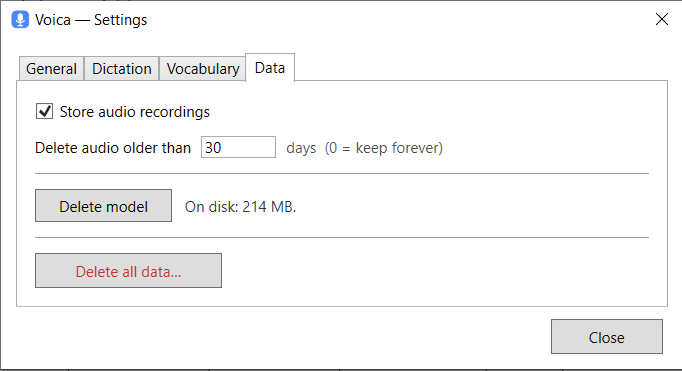
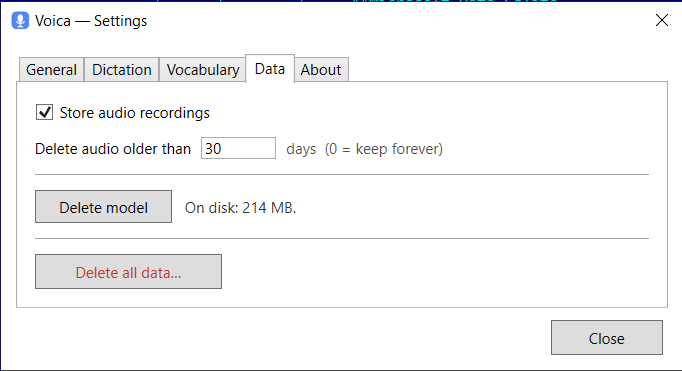
Refresh screenshots for 0.5.0; changelog and release notes
All five Settings tabs plus History are re-shot against the current UI; the
standalone About screenshot is replaced by the Settings About tab. README en/ru
also mention the STT model/language choice and history export.

diff --git a/README.ru.md b/README.ru.md
@@ -31,14 +31,16 @@ Voica — маленькое фоновое приложение в систем
 - **Диктовка по глобальному хоткею** — Push‑to‑talk (удержание) или Toggle (нажал/нажал). По
   умолчанию **Toggle + правый Alt**. Можно выбрать пресет (Right/Left Alt, CapsLock, ScrollLock,
   Pause) или записать **свою комбинацию** (напр. `Ctrl+Shift+Space`).
-- **Пунктуация через Groq Whisper** (`whisper-large-v3-turbo`) — автоопределение языка (удобно для
-  смеси русского и английского).
+- **Пунктуация через Groq Whisper** — выбор модели (`whisper-large-v3-turbo` или
+  `whisper-large-v3`) и языка (автоопределение — удобно для смеси русского и английского, либо
+  жёстко русский/английский).
 - **Локальный офлайн-движок** (опционально) — распознавание целиком на твоём ПК через **GigaAM v3**
   (русский, с пунктуацией), без сети и без ключа. Если выбрано облако, а сети нет — Voica сама
   переключится на локальный движок (когда модель установлена).
 - **Авто‑вставка** в активное поле (синтетический Ctrl+V); текст **всегда** также кладётся в буфер
   обмена. Либо — редактируемое **окно результата**.
-- **История** (SQLite) — просмотр, повторное копирование, воспроизведение аудио, удаление.
+- **История** (SQLite) — просмотр, повторное копирование, воспроизведение аудио, удаление и
+  **экспорт** всей истории в Markdown, CSV или JSON.
 - **Хранение аудио** — N дней (по умолчанию 30; 0 = хранить всегда) или не хранить вовсе.
 - **Словарь** — подсказка из терминов/названий, которые Whisper часто коверкает.
 - **Проверка обновлений** по релизам этого репозитория (опционально, раз в сутки). Voica ничего не
@@ -50,19 +52,23 @@ Voica — маленькое фоновое приложение в систем
 
 ## Скриншоты
 
-**Настройки** — вкладки General (движок + ключ) и Vocabulary (словарь + ИИ-исправление):
+**Настройки** — пять вкладок: движок и ключ, диктовка, словарь, данные, о программе.
 
 ![Настройки — General](docs/settings-general.png)
 
+![Настройки — Dictation](docs/settings-dictation.png)
+
 ![Настройки — Vocabulary](docs/settings-vocabulary.png)
 
-**История** — просмотр, повторное копирование, воспроизведение, удаление:
+![Настройки — Data](docs/settings-data.png)
+
+![Настройки — About](docs/settings-about.png)
+
+**История** — просмотр, копирование, воспроизведение, удаление, экспорт:
 
 ![Окно истории](docs/history.png)
 
-**О программе** и иконка в трее (покой):
-
-![Окно «О программе»](docs/about.png)
+**Иконка в трее** (покой):
 
 ![Иконка в трее](docs/tray.png)
 

diff --git a/CHANGELOG.md b/CHANGELOG.md
@@ -4,12 +4,31 @@ All notable changes to this project are documented here. The format is based on
 [Keep a Changelog](https://keepachangelog.com/en/1.1.0/), and this project adheres to
 [Semantic Versioning](https://semver.org/spec/v2.0.0.html).
 
-## [Unreleased]
+## [0.5.0] - 2026-07-30
+
+### Added
+- **STT model and language choice** for the cloud engine (spec §2, Settings → Dictation):
+  `whisper-large-v3-turbo` (default) or `whisper-large-v3`, and auto-detect / Russian / English.
+  Forcing a language fixes short phrases that auto-detect gets wrong. History records the model
+  actually used.
+- **Dynamic chat-model resolution with self-healing** for AI term correction (spec §6.1): the
+  model is no longer hardcoded — Voica reads the live model list, picks the best available one by
+  a priority chain, caches it, migrates retired choices, and re-resolves on a 404 mid-dictation.
+  Settings shows the resolved model and offers a picker.
+- **History export** to Markdown, CSV or JSON (spec §7) — the whole history, text and metadata,
+  no audio. CSV carries a UTF-8 BOM for Excel.
+- **About is now a Settings tab** (parity with macOS), together with the updates block:
+  "Check now", a download button, and the check-on-launch toggle.
 
 ### Changed
 - Local engine: adjacent 25 s chunks now overlap by 2 s and the transcripts are stitched with
   seam de-duplication, so a word (and its punctuation) at a chunk boundary in long recordings is
   no longer split or lost. Falls back to a plain join when no overlap is detected.
+- A transcription blocked for your Groq org (HTTP 403) now explains which model to allow.
+
+### Fixed
+- Self-test no longer runs the retention purge with a future cutoff against the real database,
+  which could delete stored recordings.
 
 ### Internal
 - CI: bumped `actions/checkout` and `actions/setup-dotnet` to v5 (removes the Node 20 deprecation
@@ -90,6 +109,7 @@ All notable changes to this project are documented here. The format is based on
 - English/Russian localization by system language.
 - `--test-all` self‑test (no GUI/network) and a `windows-latest` CI workflow.
 
+[0.5.0]: https://github.com/Inhum/voica-win/releases/tag/v0.5.0
 [0.4.0]: https://github.com/Inhum/voica-win/releases/tag/v0.4.0
 [0.3.1]: https://github.com/Inhum/voica-win/releases/tag/v0.3.1
 [0.3.0]: https://github.com/Inhum/voica-win/releases/tag/v0.3.0

diff --git a/README.md b/README.md
@@ -31,14 +31,15 @@ the same cross‑platform [behavior spec](docs/CORE-SPEC.md).
 - **Global hotkey dictation** — Push‑to‑talk (hold) or Toggle (press to start/stop). Default:
   **Toggle + Right Alt**. Pick a preset key (Right/Left Alt, CapsLock, ScrollLock, Pause) or record
   a **custom combination** (e.g. `Ctrl+Shift+Space`).
-- **Punctuation via Groq Whisper** (`whisper-large-v3-turbo`) — auto language detection (great for
-  mixed Russian/English).
+- **Punctuation via Groq Whisper** — pick the model (`whisper-large-v3-turbo` or `whisper-large-v3`)
+  and the language (auto‑detect, great for mixed Russian/English, or force Russian/English).
 - **Local offline engine** (optional) — recognition fully on your PC via **GigaAM v3** (Russian,
   with punctuation), no network and no API key. If the cloud is selected but the network is down,
   Voica automatically falls back to the local engine when the model is installed.
 - **Auto‑insert** into the focused field (synthesized Ctrl+V), and the text is **always** copied to
   the clipboard as a fallback. Or show an editable **result window**.
-- **History** (SQLite) — browse, re‑copy, play the audio, delete.
+- **History** (SQLite) — browse, re‑copy, play the audio, delete, and **export** the whole history
+  to Markdown, CSV or JSON.
 - **Audio retention** — keep recordings for N days (default 30; 0 = keep forever), or don't store
   audio at all.
 - **Vocabulary** — a hint list of terms/names Whisper often mangles.
@@ -51,19 +52,23 @@ the same cross‑platform [behavior spec](docs/CORE-SPEC.md).
 
 ## Screenshots
 
-**Settings** — General (engine + key) and Vocabulary (terms + AI correction):
+**Settings** — five tabs: engine and API key, dictation, vocabulary, data, about.
 
 ![Settings — General](docs/settings-general.png)
 
+![Settings — Dictation](docs/settings-dictation.png)
+
 ![Settings — Vocabulary](docs/settings-vocabulary.png)
 
-**History** — browse, re‑copy, play, delete:
+![Settings — Data](docs/settings-data.png)
+
+![Settings — About](docs/settings-about.png)
+
+**History** — browse, re‑copy, play, delete, export:
 
 ![History window](docs/history.png)
 
-**About**, and the tray icon (idle):
-
-![About window](docs/about.png)
+**Tray icon** (idle):
 
 ![Tray icon](docs/tray.png)
 

diff --git a/.github/release-notes/v0.5.0.md b/.github/release-notes/v0.5.0.md
@@ -1,0 +1,34 @@
+**Voica v0.5.0 — model choice, self-healing AI correction, history export.**
+
+### What's new
+
+- **Pick your Whisper model and language** (Settings → Dictation): `whisper-large-v3-turbo`
+  (faster, default) or `whisper-large-v3` (more accurate), and auto‑detect / Russian / English.
+  Forcing a language fixes short phrases that auto‑detect reads as the wrong language.
+- **AI term correction now heals itself.** The chat model is no longer hardcoded: Voica reads the
+  live model list for your key, picks the best available one, remembers it, and switches
+  automatically if Groq retires or renames a model — no app update needed. You can also pin a
+  specific model in the picker.
+- **Export your history** to **Markdown, CSV or JSON** — the whole history with text and metadata
+  (audio isn't included). CSV carries a UTF‑8 BOM so Excel shows Cyrillic correctly.
+- **About moved into Settings** as a fifth tab, along with the updates block ("Check now" +
+  check‑on‑launch).
+- **Better long dictations:** local‑engine chunks now overlap, so a word or punctuation mark at a
+  25‑second boundary is no longer split or lost.
+
+Also: a transcription blocked for your Groq organization (HTTP 403) now tells you exactly which
+model to allow.
+
+### Install
+
+Two downloads to choose from (Windows 10 1809+ / x64):
+
+| File | Size | Needs |
+|---|---|---|
+| **`Voica.exe`** | ~80 MB | nothing — fully self-contained |
+| **`Voica-fx.exe`** | ~37 MB | [.NET 8 Desktop Runtime](https://dotnet.microsoft.com/download/dotnet/8.0) installed once |
+
+Not code-signed yet, so SmartScreen may warn → **More info → Run anyway**
+([why, and how to verify](https://github.com/Inhum/voica-win#why-does-windows-warn-about-this-app)).
+
+Full changelog: https://github.com/Inhum/voica-win/blob/main/CHANGELOG.md
